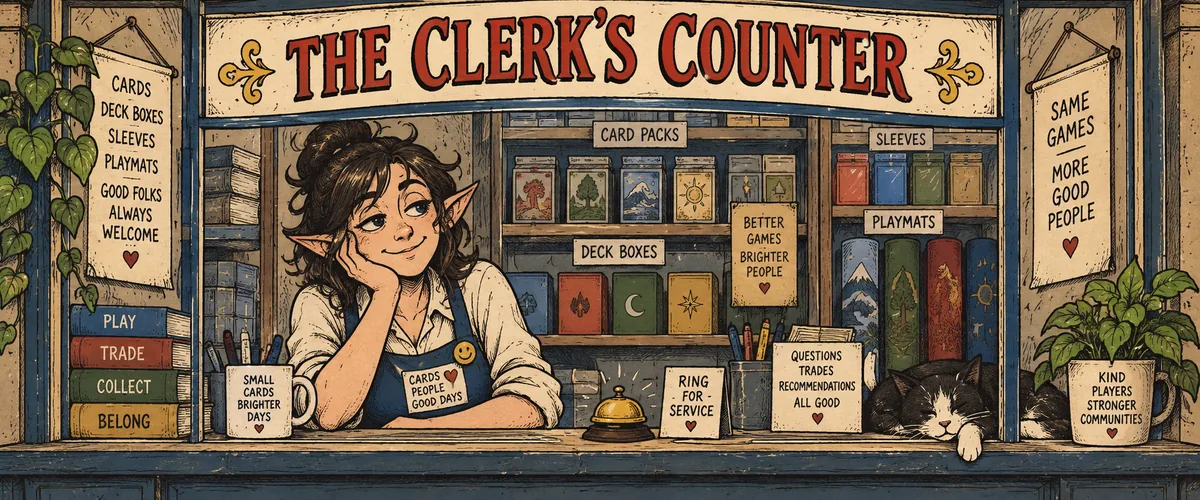
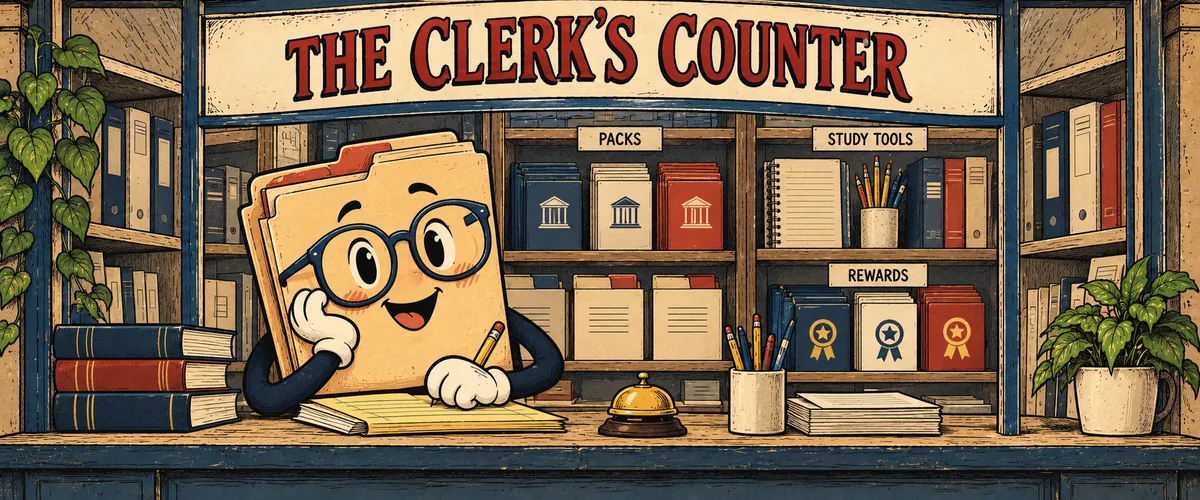
Add Exam Readiness, a recall score kept apart from XP
Profile shows Exam readiness; each card shows recall dots and when it is
due for review. Only right answers without hints raise it, once a day per
card; it fades without review. XP and boosts never affect it.

diff --git a/index.html b/index.html
@@ -951,6 +951,20 @@ button.row:active,.gcard:active,.mini:active,.tile2:active,.hero:active,.quick:a
 .cd-top{display:flex;flex-direction:column;align-items:center;padding-top:6px}
 .cd-card{width:min(62vw,300px,calc((100dvh - 330px) / 1.5))}
 .stage-dots{display:flex;gap:8px;margin-top:12px}
+/* Readiness (separate from XP): Profile panel and a card's recall dots */
+.rd-panel{margin:0 0 16px;padding:14px 16px;border-radius:16px;background:var(--bg2);border:1.5px solid var(--line)}
+.rd-top{display:flex;align-items:baseline;justify-content:space-between}
+.rd-top b{font:400 20px/1 "Bangers",sans-serif;letter-spacing:.04em}
+.rd-top span{font:400 30px/1 "Luckiest Guy",sans-serif;color:var(--mustard)}
+.rd-bar{height:10px;margin:10px 0 8px;border-radius:5px;background:rgba(255,255,255,.1);overflow:hidden}
+.rd-bar i{display:block;height:100%;border-radius:5px;background:linear-gradient(90deg,#7fb98a,#e3b23c)}
+.rd-panel small{display:block;color:var(--sub);font-size:14px;line-height:1.3}
+.rc-row{display:flex;align-items:center;gap:10px;margin:8px 0 4px;font-size:15px}
+.rc-row > span:first-child{color:var(--sub)}
+.rc-row small{margin-left:auto;color:var(--sub);font-size:14px}
+.rc-pips{display:inline-flex;gap:4px}
+.rc-pips i{width:11px;height:11px;border-radius:50%;border:1.5px solid var(--sub);opacity:.6}
+.rc-pips i.on{background:#7fb98a;border-color:#7fb98a;opacity:1}
 .stage-dots button{width:34px;height:34px;border-radius:17px;border:1.5px solid var(--line);background:rgba(255,255,255,.06);color:var(--paper);font-family:"Luckiest Guy";font-size:14px}
 .stage-dots button.cur{background:var(--mustard);color:var(--ink);border-color:var(--ink)}
 .stage-dots button.lk{font-size:12px;opacity:.45}
@@ -1135,7 +1149,7 @@ html.cq-reduce-motion .sp-card{animation:none}
 <div class="flash" id="flash"></div>
 
 <script src="https://cdn.jsdelivr.net/npm/@supabase/supabase-js@2.117.2"></script>
-<script src="cloud-sync.js?v=25246a67"></script>
+<script src="cloud-sync.js?v=b8aec09d"></script>
 <script src="study.js?v=bf7c9345"></script>
 <script src="economy.js?v=a7261374"></script>
 <script src="store.js?v=037a6033"></script>
@@ -3131,6 +3145,7 @@ const SCREENS = {
         </div>
         <h2 class="cd-name">${esc(c.name)}</h2>
         <div class="cd-level"><span>${st.mastered ? ICO('mastered') + ' Mastered' : 'Level ' + st.level}</span><span>${st.mastered ? 'Max' : st.xp + ' / ' + NEED[st.level-1] + ' XP'}</span></div>${pbar(cardProgress(c))}
+        ${c.bank && c.bank.length ? `<div class="rc-row"><span>Recall</span>${Recall.pips(c.id)}<small>${Recall.dueText(c.id)}</small></div>` : ''}
         ${seg('tab', tab, tabs)}
         <div class="cd-panel">${panel}</div>`,
       after:`<div class="cta-bar"><div><button class="btn-big ${isCold(st) ? 'coldbtn' : ''}" data-act="study" data-id="${c.id}">${PLAY_ICON} ${isCold(st) ? 'REOPEN THIS CASE' : tab === 'rule' && c.source ? 'QUIZ THIS CARD' : 'STUDY THIS CARD'}</button></div></div>`,
@@ -3179,6 +3194,7 @@ const SCREENS = {
       <div class="stat4 ${showAccuracy ? '' : 'three'}">
         ${showAccuracy ? `<div><b>${acc}</b><small>Accuracy</small></div>` : ''}<div><b>${S.stats.sessions || '—'}</b><small>Rounds</small></div>
         <div><b>${CARDS.filter(owned).length}</b><small>Cards</small></div><div><b>${mastered || '—'}</b><small>Mastered</small></div></div>
+      ${readinessPanel()}
       <div class="list">
         ${profileAdminRow()}
         ${profileOnbRow()}
@@ -3492,6 +3508,50 @@ function paintStudy(anim){
   const ex = back.querySelector('.explain');
   if (ex) { shrinkToFit(ex, 3.8); ex.classList.toggle('more', ex.scrollHeight > ex.clientHeight + 2); }
 }
+function readinessPanel(){
+  const pct = Math.round(Recall.readiness() * 100), list = Recall.examCards();
+  return `<div class="rd-panel"><div class="rd-top"><b>Exam readiness</b><span>${pct}%</span></div>
+    <div class="rd-bar"><i style="width:${pct}%"></i></div>
+    <small>${Recall.strong()} of ${list.length} rule cards strong in memory. Only right answers without hints raise it, and it fades if you stop reviewing. XP and boosts don't count.</small></div>`;
+}
+/* ---- Readiness: what you actually remember, kept apart from XP ----
+   Each card has a recall box 0-5. A right answer without a hint moves it up one (once a day per card, so
+   cramming can't max it out); a hinted right answer changes nothing; a wrong answer moves it down one.
+   Each box has a review gap; after the gap, the card's strength fades. XP, boosts, coins and prizes never
+   touch it. Exam readiness = average strength over cards that have real questions (generated skill games
+   don't count), owned or not. Stored in S.recall[cardId] = {box, due, last, up, right, wrong}. */
+const Recall = (() => {
+  const DAYMS = 864e5, GAP = [0, 1, 3, 7, 14, 30];   // days until review, by box
+  const all = () => (S.recall = S.recall && typeof S.recall === 'object' ? S.recall : {});
+  const rec = id => all()[id] || { box:0, due:0, last:0, up:0, right:0, wrong:0 };
+  function record(id, ok, hinted){
+    const r = { ...rec(id) }, now = Date.now();
+    if (ok) { r.right++; if (!hinted && now - r.up > 20 * 36e5) { r.box = Math.min(5, r.box + 1); r.up = now; } }
+    else { r.wrong++; r.box = Math.max(0, r.box - 1); }
+    r.last = now; r.due = now + GAP[r.box] * DAYMS;
+    all()[id] = r;
+  }
+  // 0..1: the box's share, fading by half for every review gap that has passed unreviewed
+  function strength(id, now = Date.now()){
+    const r = rec(id); if (!r.box) return 0;
+    const over = Math.max(0, now - r.due) / (GAP[r.box] * DAYMS);
+    return r.box / 5 * Math.pow(.5, over);
+  }
+  const examCards = () => CARDS.filter(c => c.bank && c.bank.length);
+  function readiness(){
+    const list = examCards(); if (!list.length) return 0;
+    return list.reduce((n, c) => n + strength(c.id), 0) / list.length;
+  }
+  const strong = () => examCards().filter(c => strength(c.id) >= .6).length;
+  function dueText(id){
+    const r = rec(id); if (!r.box) return r.wrong || r.right ? 'Keep practicing to build recall' : 'Not studied yet';
+    const d = Math.ceil((r.due - Date.now()) / DAYMS);
+    return d <= 0 ? 'Review due now' : d === 1 ? 'Review due tomorrow' : `Review due in ${d} days`;
+  }
+  // five dots, filled to the card's current (faded) strength
+  const pips = id => { const n = Math.round(strength(id) * 5); return `<span class="rc-pips" aria-label="Recall ${n} of 5">${[1,2,3,4,5].map(i => `<i class="${i <= n ? 'on' : ''}"></i>`).join('')}</span>`; };
+  return { record, strength, readiness, strong, examCards, dueText, pips };
+})();
 function answer(v){
   if (!sess || sess.answered) return;
   if (!canStudyCard(sess.id)) { const id = sess.id; closeSessionLayer(); missingSheet(id); return; }
@@ -3501,6 +3561,7 @@ function answer(v){
   const lvBefore = st.level;
   let gain = 0, coins = 0;
   S.stats.answered++; sess.results[sess.i] = ok;
+  Recall.record(sess.id, ok, !!sess.hint);
   if (ok) {
     S.stats.correct++; daily().correct++; if (c.trickType) daily().trick++;
     gain = Math.round(REWARD[st.level-1] * (hintCosts() ? .5 : 1)) * (doubleXPOn() ? 2 : 1);   // boosts: free hint, double XP

diff --git a/cloud-sync.js b/cloud-sync.js
@@ -43,7 +43,7 @@
       Object.values(state.cards).filter(c => c && c.owned).length * 3;
   };
   /* Whichever copy wins, nothing the player wrote or built is thrown away: the losing copy's notes, highlights,
-     saved questions, notebook pages, binders and Docket records are added to the winner. Same-id items keep the
+     saved questions, notebook pages, binders, Docket records and Readiness history are added to the winner. Same-id items keep the
      winner's version, except a rule note, which keeps whichever was written last. Returns [merged, changed]. */
   function keepBoth(win, lose) {
     const out = JSON.parse(JSON.stringify(win)), before = JSON.stringify(out);
@@ -62,6 +62,11 @@
     }
     if (Array.isArray(lose.binders)) out.binders = byId(Array.isArray(out.binders) ? out.binders : [], lose.binders);
     if (Array.isArray(lose.dockets)) out.dockets = byId(Array.isArray(out.dockets) ? out.dockets : [], lose.dockets);
+    // Readiness evidence: per card, keep whichever copy answered it most recently
+    if (lose.recall && typeof lose.recall === 'object') {
+      out.recall = out.recall && typeof out.recall === 'object' ? out.recall : {};
+      Object.entries(lose.recall).forEach(([k, r]) => { if (r && (!out.recall[k] || (r.last || 0) > (out.recall[k].last || 0))) out.recall[k] = r; });
+    }
     return [out, JSON.stringify(out) !== before];
   }
   const emit = (status, extra = {}) =>
